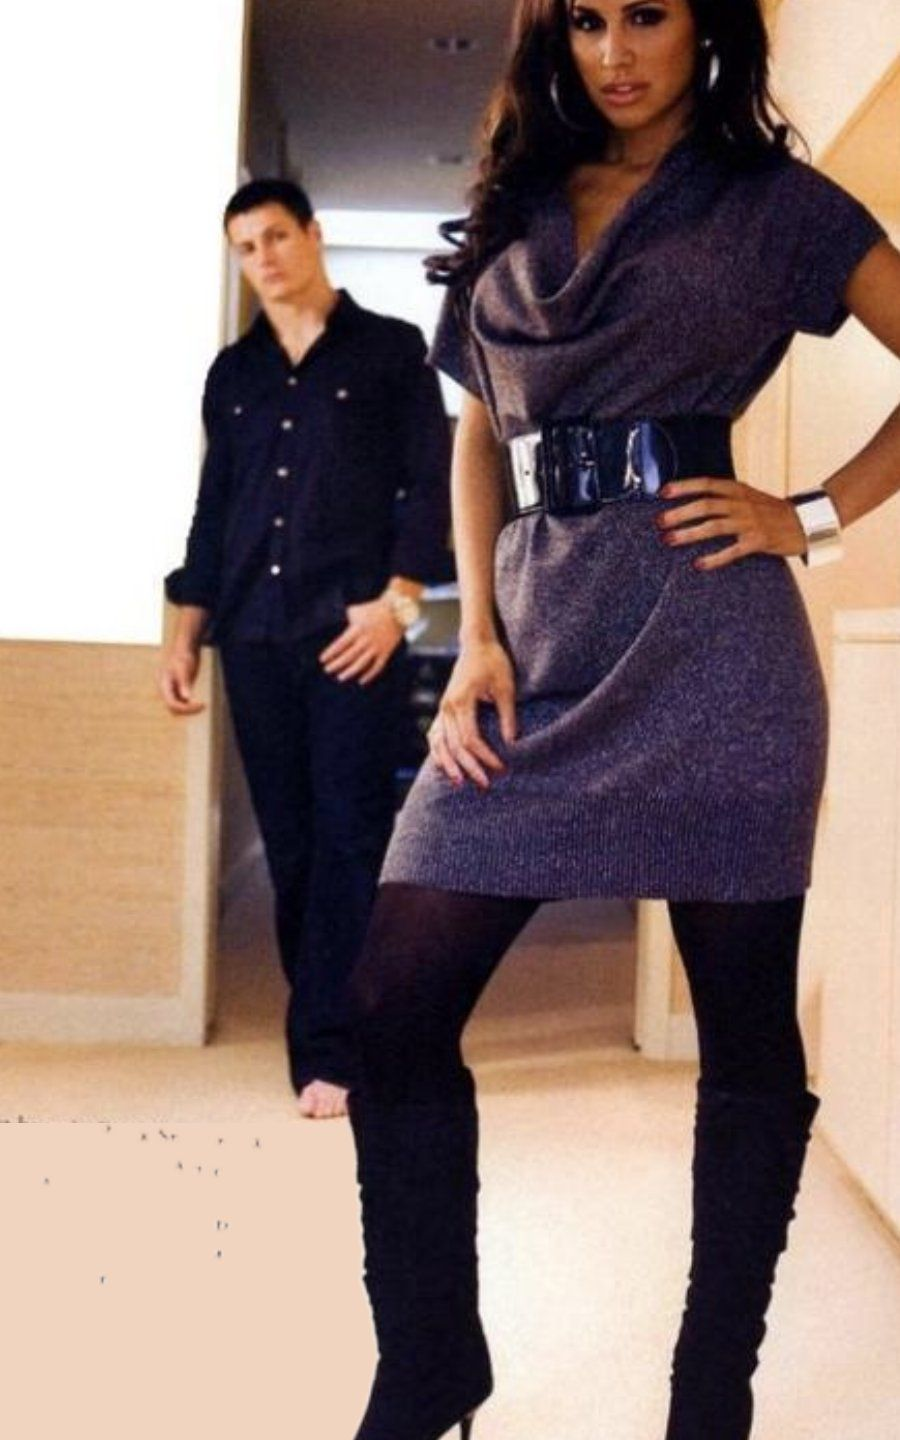
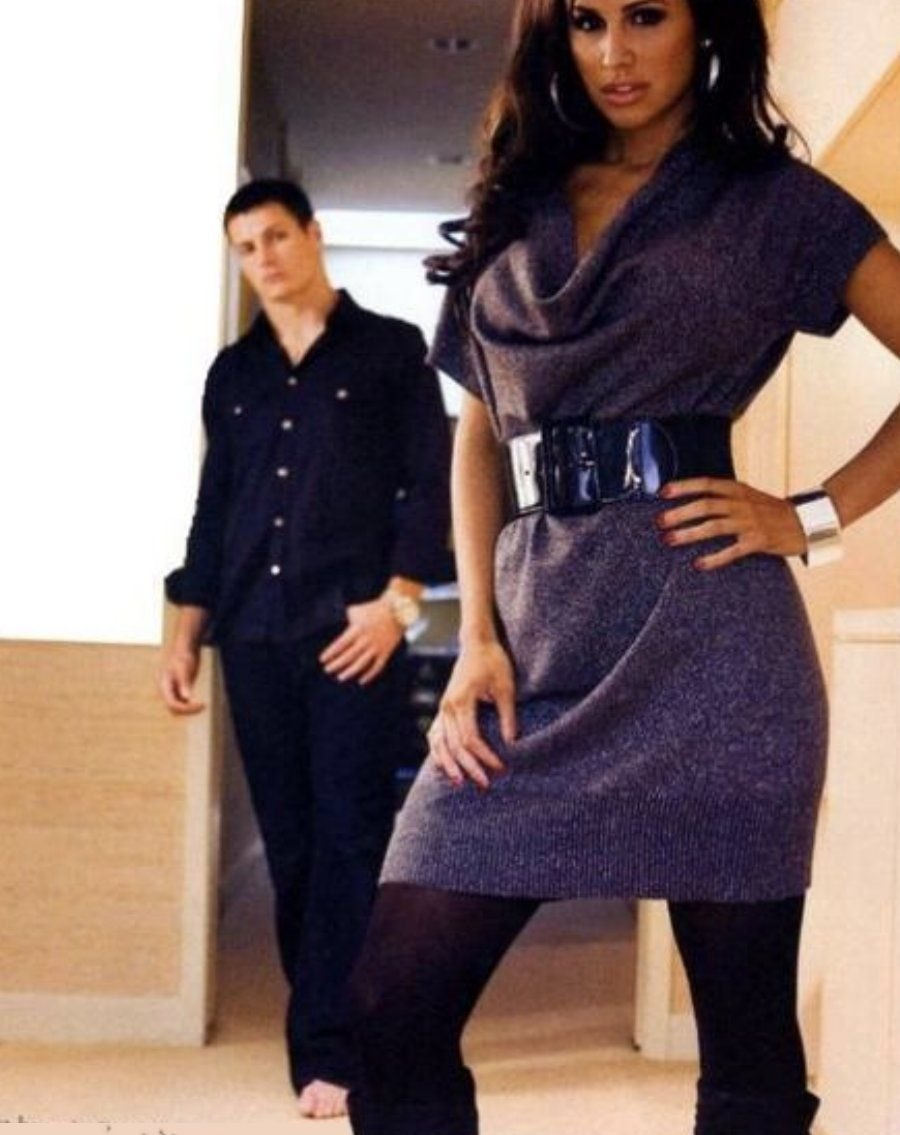
Jen's Nov 6 and Nov 9 corrections: About, bio, Childhelp, press, documentary, photos, shop
- About: Jen's car-rides line word for word, replacing the coffee paragraph;
  the coffee photo keeps its place without the "Before the house wakes up"
  caption. Gallery photos larger on phones and laptops (still whole).
- Media: titled "Book Press & Interviews". Jen's new four-paragraph press-kit
  bio. Akron Beacon Journal Book Talk added (six of six pieces linked).
- Get involved: The Forever Angels shown as her own nonprofit, Childhelp under
  its own heading, "I have volunteered with Childhelp". CASA photo and caption off.
- Documentary: "Beyond the Velvet Ropes: The Story of Jennifer Walcott
  Archuleta", Coming Soon, "Currently in development with Crash Cat Media
  Group" (linked), and Jen's exact disclaimer under the artwork.
- Gallery: slide 98 (pink aprons) out; slide 106 cropped above the painted
  floor patch (simple crop, original in git history).
- Shop: the Coming soon bundle card is hidden until it has a Stripe link, so
  the shop shows only what can be bought. Prices and links unchanged.

diff --git a/app/media/page.js b/app/media/page.js
@@ -9,7 +9,7 @@ import { APPEARANCES, FILM, PRESS, cardMeta } from '../../lib/press';
 import './media.css';
 
 export const metadata = {
-  title: { absolute: 'Beyond the Velvet Ropes: Media & Press, Jen Archuleta' },
+  title: { absolute: 'Book Press & Interviews, Jen Archuleta' },
   description:
     'Media and press for Beyond the Velvet Ropes: the book, the feature film, and the documentary.',
 };
@@ -17,7 +17,14 @@ export const metadata = {
 // FilmFreeway sits with Leone and Mark. Never publish a representative's
 // phone number or email. Signup and contact live on Thank You.
 
-const PRESS_BIO = 'Jen Archuleta is the author of Beyond the Velvet Ropes: My Story of Perseverance, Hope, and Love, and the host of the podcast Unfiltered with Jen Archuleta. She grew up in a small town, worked as a makeup artist, and became Playboy’s Miss August 2001. She lives on the West Coast with her husband, former NFL safety Adam Archuleta, their three children, and a houseful of rescue animals.';
+// Jen, Nov 6 email: her new press-kit bio, word for word, in her four paragraphs.
+const PRESS_BIO_PARAGRAPHS = [
+  'Jen Archuleta, formerly known as Jennifer Walcott, is the author of Beyond the Velvet Ropes: My Story of Perseverance, Hope, and Love and host of Unfiltered with Jen Archuleta.',
+  'Originally from a small town in Ohio, she moved to Los Angeles to pursue her dreams, working as a makeup artist in Hollywood before becoming Playboy’s Miss August 2001.',
+  'Throughout her life, Jen has dedicated much of her time to volunteering and helping others. She co-founded The Forever Angels, a nonprofit focused on supporting children and families, and has been actively involved with organizations including Childhelp.',
+  'Today, she is a wife, mother of three, animal rescue advocate, author, and storyteller. She shares her life with her husband, former NFL player Adam Archuleta, their children, and a houseful of rescue animals.',
+];
+const PRESS_BIO = PRESS_BIO_PARAGRAPHS.join('\n\n');
 
 const HEADSHOTS = [
   {
@@ -86,13 +93,6 @@ const GIVE_BACK = [
     height: 1852,
   },
   {
-    src: '/assets/casa-sworn-in.jpg',
-    alt: 'Jen Archuleta raising her hand while being sworn in as a CASA volunteer',
-    caption: 'Getting sworn in as a CASA volunteer',
-    width: 933,
-    height: 960,
-  },
-  {
     src: '/assets/turbo-ronald-mcdonald.jpg',
     alt: 'Jen with her therapy dog Turbo at a group visit',
     caption: 'Turbo doing TDI therapy dog work for Ronald McDonald House',
@@ -147,7 +147,7 @@ export default function MediaPage() {
       <main id="main-content">
       <section className="wrap media-hero media-intro">
         <div>
-          <h1>Beyond the Velvet Ropes: Media &amp; Press</h1>
+          <h1>Book Press &amp; Interviews</h1>
           <p className="media-lead">This page features media and press specifically related to Beyond the Velvet Ropes, including the book, feature film, and documentary. It is not a complete archive of media from my earlier career.</p>
           <MediaCats />
         </div>
@@ -170,7 +170,7 @@ export default function MediaPage() {
               <h3>Author bio</h3>
               <CopyTextButton text={PRESS_BIO} label="Copy" />
             </div>
-            <p>{PRESS_BIO}</p>
+            {PRESS_BIO_PARAGRAPHS.map((para) => <p key={para.slice(0, 24)}>{para}</p>)}
           </div>
           <h3 className="headshot-title">Photos for press</h3>
           {/* MEDIA-14: each figure is a 3-row subgrid (frame, name, button) so tops,
@@ -225,9 +225,15 @@ export default function MediaPage() {
             <figcaption>{FILM.documentaryPoster.note}</figcaption>
           </figure>
           <div className="doc-copy">
-            <p className="doc-status">In Development</p>
-            <h3>Beyond the Velvet Ropes: The Documentary</h3>
-            <p>{FILM.documentary}</p>
+            <p className="doc-status">{FILM.documentaryStatus}</p>
+            <h3>{FILM.documentaryTitle}</h3>
+            <p>
+              {FILM.documentary}{' '}
+              <a href={FILM.documentaryPartner.href} target="_blank" rel="noopener noreferrer">
+                {FILM.documentaryPartner.label}
+              </a>
+              .
+            </p>
             <p>
               <a
                 className="btn btn-primary"
@@ -289,10 +295,22 @@ export default function MediaPage() {
       <section id="forever-angels" className="wrap">
         <div>
           <h2>Want to Get Involved?</h2>
+          {/* Jen, Nov 9: The Forever Angels is her own nonprofit, kept separate from Childhelp. */}
+          <h3>The Forever Angels, my nonprofit</h3>
           <p>
             I co-founded The Forever Angels with Allison Kiefer. Families in need come first, and we also help veterans, older adults, and animals. We receive referrals from social workers and case managers, then work with trusted community partners to verify each need and make sure support reaches the people who truly need it.
           </p>
-          <p>Turbo has worked with Ronald McDonald House Charities, VA hospitals, and hospice.</p>
+          <p className="media-actions">
+            <a
+              className="btn btn-ghost"
+              href="https://theforeverangels.com/our-founders/"
+              target="_blank"
+              rel="noopener noreferrer"
+              aria-label="The Forever Angels (opens in new tab)"
+            >
+              The Forever Angels<span aria-hidden="true"> ↗</span>
+            </a>
+          </p>
         </div>
         {/* MEDIA-11 / MEDIA-13: whole photos in the same gold mat as the headshots,
             bottoms and captions on one line, served through next/image (lazy, resized). */}
@@ -305,7 +323,7 @@ export default function MediaPage() {
                   alt={photo.alt}
                   width={photo.width}
                   height={photo.height}
-                  sizes="(max-width: 1000px) 45vw, 260px"
+                  sizes="(max-width: 1000px) 45vw, 340px"
                   quality={82}
                 />
               </div>
@@ -313,21 +331,11 @@ export default function MediaPage() {
             </figure>
           ))}
         </div>
+        <h3>Childhelp</h3>
         <p>
-          I have worked with Childhelp for more than eight years. I have chaired the annual fashion show fundraiser three times, including the 2022 A Day in Wonderland event, which raised nearly $325,000 for Childhelp’s programs.
+          I have volunteered with Childhelp for more than eight years. I have chaired the annual fashion show fundraiser three times, including the 2022 A Day in Wonderland event, which raised nearly $325,000 for Childhelp’s programs.
         </p>
-        {/* MEDIA-20: same ghost-button style as the other outbound links. */}
-        <p className="media-actions">
-          <a
-            className="btn btn-ghost"
-            href="https://theforeverangels.com/our-founders/"
-            target="_blank"
-            rel="noopener noreferrer"
-            aria-label="The Forever Angels (opens in new tab)"
-          >
-            The Forever Angels<span aria-hidden="true"> ↗</span>
-          </a>
-        </p>
+        <p>Turbo has worked with Ronald McDonald House Charities, VA hospitals, and hospice.</p>
       </section>
       </main>
 

diff --git a/lib/press.js b/lib/press.js
@@ -10,21 +10,23 @@ export const FILM = {
   // Jen, Nov 6: the Austin recognition stays here, never called an award.
   film:
     'Beyond the Velvet Ropes is being developed as a feature film with Leone Marucci and Steelyard Pictures. The screenplay advanced to the Second Round of the 2026 Austin Film Festival Script Competition.',
-  documentary:
-    'Beyond the Velvet Ropes: The Documentary is currently in development with filmmaker Mark Andrew Hamer of Crash Cat Media Group.',
-  // Jen, Nov 6: concept poster, labeled In Development (never Coming Soon),
-  // and a gold Follow the documentary button to the documentary's site.
+  // Jen, Nov 6 email (her final word): title, "Coming Soon", and her
+  // one-line status with Crash Cat Media Group linked. Still in development.
+  documentaryTitle: 'Beyond the Velvet Ropes: The Story of Jennifer Walcott Archuleta',
+  documentaryStatus: 'Coming Soon',
+  documentary: 'Currently in development with',
+  documentaryPartner: { label: 'Crash Cat Media Group', href: 'https://www.crashcatmedia.com/' },
   documentaryPoster: {
     src: '/assets/documentary-concept-poster.jpg',
     width: 1320,
     height: 858,
     alt: 'Concept poster for Beyond the Velvet Ropes, the documentary, with Jen reflected in a car mirror',
-    note: 'Promotional concept artwork created to preview the documentary. It is not the official film poster. Final artwork and production details are subject to change.',
+    note: 'Promotional concept artwork created to preview the documentary. This is not the official film poster. Final artwork and production details are subject to change.',
   },
   documentarySite: 'https://www.crashcatmedia.com/',
   partners: [
     { label: 'Steelyard Pictures', href: 'https://www.steelyardpictures.com/bio' },
-    { label: 'Crash Cat Media Group', href: 'https://CrashCatMedia.com' },
+    { label: 'Crash Cat Media Group', href: 'https://www.crashcatmedia.com/' },
   ],
   // Jen's FilmFreeway page, shown right with Leone and Mark (Jen, November 3).
   filmfreeway: { label: 'filmfreeway.com/JenniferArchuleta', href: 'https://filmfreeway.com/JenniferArchuleta' },
@@ -50,6 +52,14 @@ export const PRESS = [
     byline: 'Kelcey Norris',
     date: 'Aug 13, 2026',
     href: 'https://www.mahoningmatters.com/news/local/article316760975.html',
+  },
+  {
+    // Jen, Nov 6: Barbara McIntyre's Book Talk column features the memoir.
+    outlet: 'Akron Beacon Journal',
+    headline: 'Book Talk: new releases from Ohio natives, including Beyond the Velvet Ropes',
+    byline: 'Barbara McIntyre',
+    date: 'Aug 23, 2026',
+    href: 'https://www.beaconjournal.com/story/entertainment/books/2026/08/23/cleveland-author-vivien-chien-releases-and-then-there-were-bun-part-of-noodle-shop-series-book-talk/91354166007/',
   },
   {
     // The outlet's own site has an expired certificate, so this points at
@@ -103,6 +113,7 @@ export const PRESS_HIGHLIGHTS = [PRESS[0], APPEARANCES[0], PRESS[2]];
 export const AS_SEEN_IN = [
   'The Vindicator',
   'Tribune Chronicle',
+  'Akron Beacon Journal',
   'WKBN 27 First News',
   'The Business Journal Daily',
   'Mahoning Matters',

diff --git a/app/components/PhotoGallery.js b/app/components/PhotoGallery.js
@@ -314,7 +314,7 @@ const NOV4B = [
   { src: '/assets/gallery-nov4b/nov4b-04-two-women-laughing.jpg', alt: 'Jen Archuleta laughing with a friend', caption: '', width: 1242, height: 1550 },
   { src: '/assets/gallery-nov4b/nov4b-05-beach-bikini-lookback.jpg', alt: 'Jen Archuleta on the beach', caption: '', width: 1242, height: 930 },
   { src: '/assets/gallery-nov4b/nov4b-06-couch-fishburne.jpg', alt: 'Jen Archuleta seated on a couch', caption: '', width: 1242, height: 1188 },
-  { src: '/assets/gallery-nov4b/nov4b-07-purple-dress-magazine.jpg', alt: 'Jen Archuleta in a purple dress on a magazine page', caption: '', width: 900, height: 1440 },
+  { src: '/assets/gallery-nov4b/nov4b-07-purple-dress-magazine.jpg', alt: 'Jen Archuleta in a purple dress on a magazine page', caption: '', width: 900, height: 1135 },
   { src: '/assets/gallery-nov4b/nov4b-08-bunny-ears-party.jpg', alt: 'Jen Archuleta at a party in bunny ears', caption: '', width: 861, height: 940 },
   { src: '/assets/gallery-nov4b/nov4b-09-four-people-beads.jpg', alt: 'Jen Archuleta with friends', caption: '', width: 1040, height: 820 },
   { src: '/assets/gallery-nov4b/nov4b-10-green-top-white-shorts.jpg', alt: 'Jen Archuleta in a green top and white shorts', caption: '', width: 1150, height: 1480 },
@@ -406,6 +406,8 @@ const OUT_OF_GALLERY = new Set([
   '/assets/gallery-nov4b/nov4b-16-playboy-painting-imagecollect.jpg',
   // Jen, Nov 6: featured on its own on About Me, not hidden in the gallery.
   '/assets/gallery-nov4b/nov4b-13-award-podium.jpg',
+  // Jen, Nov 9: slide 98 (the pink aprons, "Easter bakers") is out.
+  '/assets/gallery-nov4/nov4-17-pink-aprons.jpg',
 ]);
 
 // Jen's captions (Nov 4; slides 1, 7, 8, and 9 reworded by her Nov 5), matched by file. Empty means no caption line.

diff --git a/app/about/page.js b/app/about/page.js
@@ -61,10 +61,10 @@ export default function AboutPage() {
             how I like it.
           </p>
           <p className="tim-lead">
-            {/* Jen, Nov 6: her own words for the favorite part of the day ("is" per Adam). */}
-            My favorite part of the day is car rides because that is when most of the talking
-            happens. Sundays, I keep a little quiet for my faith. It keeps me steady and it keeps me
-            humble.
+            {/* Jen, Nov 9: her words, word for word. Replaces the coffee paragraph. */}
+            My favorite part of the day is the car rides with my kids. That’s when some of our best
+            conversations happen. I love a full house, good conversation, laughter, and a little
+            gambling now and then.
           </p>
         </div>
         <div>
@@ -80,8 +80,7 @@ export default function AboutPage() {
               <span className="tim-slot-cap">Whoever else wandered in</span>
             </div>
             <div className="tim-slot-wrap">
-              <Image className="tim-img" src="/assets/coffee.jpg" alt="A quiet morning coffee before the house wakes up" width={1400} height={1400} sizes="(max-width: 860px) 92vw, 360px" quality={85} />
-              <span className="tim-slot-cap">Before the house wakes up</span>
+              <Image className="tim-img" src="/assets/coffee.jpg" alt="A cup of coffee" width={1400} height={1400} sizes="(max-width: 860px) 92vw, 360px" quality={85} />
             </div>
             <div className="tim-slot-wrap tim-span">
               <Image className="tim-img" src="/assets/full-house-kids-dogs.jpg" alt="The kids asleep in a big bed with two of the rescues" width={1320} height={943} sizes="(max-width: 860px) 92vw, 640px" quality={85} />

diff --git a/app/about/about.css b/app/about/about.css
@@ -287,8 +287,8 @@
    one), always whole and uncropped, and the stage hugs it, so there is no
    empty band above and below a wide photo. */
 @media (max-width: 759px) {
-  .gallery-band .wrap { padding-inline: 10px; }
-  .gallery-band .gallery-stage { --g-max-h: 78vh; }
+  .gallery-band .wrap { padding-inline: 6px; }
+  .gallery-band .gallery-stage { --g-max-h: 86vh; --g-pad: 3px; }
   .gallery-band .gallery-area { height: auto; }
   .gallery-band .gallery-slide img,
   .gallery-band .gallery-slide.is-active img {
@@ -300,6 +300,15 @@
 }
 @supports (height: 1svh) {
   @media (max-width: 759px) {
-    .gallery-band .gallery-stage { --g-max-h: 78svh; }
+    .gallery-band .gallery-stage { --g-max-h: 86svh; }
+  }
+}
+
+/* Jen, Nov 9: bigger gallery photos on a laptop too. Up to 1100px wide and
+   86% of the screen tall, still whole and never upscaled past 1.6x. */
+@media (min-width: 760px) {
+  .gallery-band .gallery-stage {
+    --g-max-w: min(1100px, calc(100cqw - 2 * var(--g-arrow) - 2 * var(--g-gap) - 2 * var(--g-pad) - 2px));
+    --g-max-h: min(86vh, 1000px);
   }
 }

diff --git a/app/media/media.css b/app/media/media.css
@@ -30,7 +30,7 @@
 
 .give-back {
   display: grid;
-  grid-template-columns: repeat(4, minmax(0, 1fr));
+  grid-template-columns: repeat(3, minmax(0, 1fr));
   gap: 18px;
   margin: 28px 0;
   align-items: end; /* MEDIA-11 fallback: bottoms line up, no crop */
@@ -291,10 +291,7 @@
 
 .media-block { margin-top: var(--space-8); } /* MEDIA-16 */
 
-/* Four photos in the Get involved row: two across on tablets. */
-@media (max-width: 1000px) {
-  .give-back { grid-template-columns: repeat(2, minmax(0, 1fr)); }
-}
+/* Three photos in the Get involved row (Jen, Nov 9: CASA photo out). */
 
 @media (max-width: 760px) {
   .media-grid,
@@ -368,4 +365,13 @@
 .media-page main > section > :last-child { margin-bottom: 0; }
 @media (max-width: 759px) {
   .media-page section { padding-top: var(--space-7); }
+}
+
+/* Phones: two across, and the third photo sits centered under them. */
+@media (max-width: 760px) {
+  .give-back figure:last-child:nth-child(odd) {
+    grid-column: 1 / -1;
+    justify-self: center;
+    width: calc(50% - var(--space-3) / 2);
+  }
 }

diff --git a/app/book/BookOffers.js b/app/book/BookOffers.js
@@ -166,6 +166,9 @@ export default function BookOffers() {
               </div>
             </div>
           </article>
+          {/* Jen, Nov 9: the shop only shows what can be bought today. The bundle
+              card comes back on its own once SHOP.bundle holds a Stripe link. */}
+          {SHOP.bundle ? (
           <article className="product-card" id="bundle">
             <span id="backstage-bundle" />
             <span id="backstage-box" />
@@ -192,12 +195,11 @@ export default function BookOffers() {
                     </a>
                     <TrustLine />
                   </>
-                ) : (
-                  <span className="btn btn-disabled">Coming soon</span>
-                )}
+                ) : null}
               </div>
             </div>
           </article>
+          ) : null}
           {/* Jen, Nov 6: apparel is an extra, so it sits last, after the book products. */}
           <article className="product-card" id="podcast-apparel">
             <div className="product-media product-media--contain">

diff --git a/lib/site-search.js b/lib/site-search.js
@@ -20,7 +20,7 @@ export const SEARCH_PAGES = [
   },
   {
     href: '/media',
-    title: 'Beyond the Velvet Ropes: Media & Press',
+    title: 'Book Press & Interviews',
     excerpt: 'Press, television, the feature film and documentary, and speaking.',
   },
   {

diff --git a/docs/photo-changes-2026-11-05.md b/docs/photo-changes-2026-11-05.md
@@ -100,3 +100,12 @@ AGENTS.md; do not re-blur them without asking Adam and Jen.
 | `gallery-nov5/nov5-05-spartan-team.jpg` | New. Whole photo, resized to 1320 wide. |
 
 All saved fresh as JPEG with no metadata. Checked against every image on the site: none is a duplicate.
+
+## November 9 (Jen's Nov 9 email)
+
+| Where | Change |
+|---|---|
+| About gallery, slide 98 | `gallery-nov4/nov4-17-pink-aprons.jpg` ("Easter bakers") is out of the gallery (`OUT_OF_GALLERY`). The file stays in the repo. |
+| About gallery, slide 106 | `gallery-nov4b/nov4b-07-purple-dress-magazine.jpg` cropped at the bottom (900x1440 to 900x1135) to remove a flat painted patch with specks on the floor. Simple crop, nothing painted. The original is in git history (commit 24da2ca). |
+| Media, Get involved | The CASA swearing-in photo (`casa-sworn-in.jpg`) and its caption are off the page. The file stays in the repo. |
+| About, everyday photos | The coffee cup photo stays; its "Before the house wakes up" caption is gone and the alt text is now "A cup of coffee" (Jen: the quiet-coffee line is not her). |
